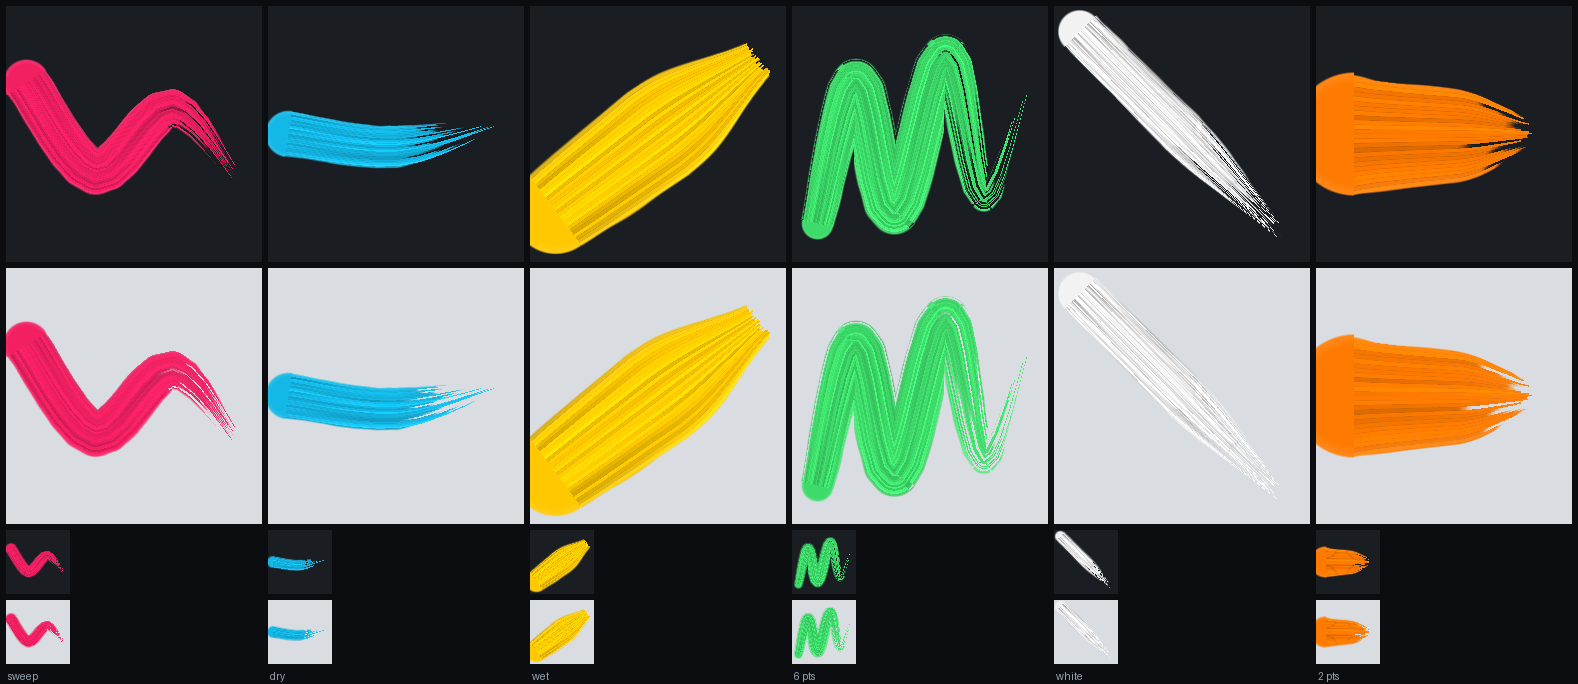
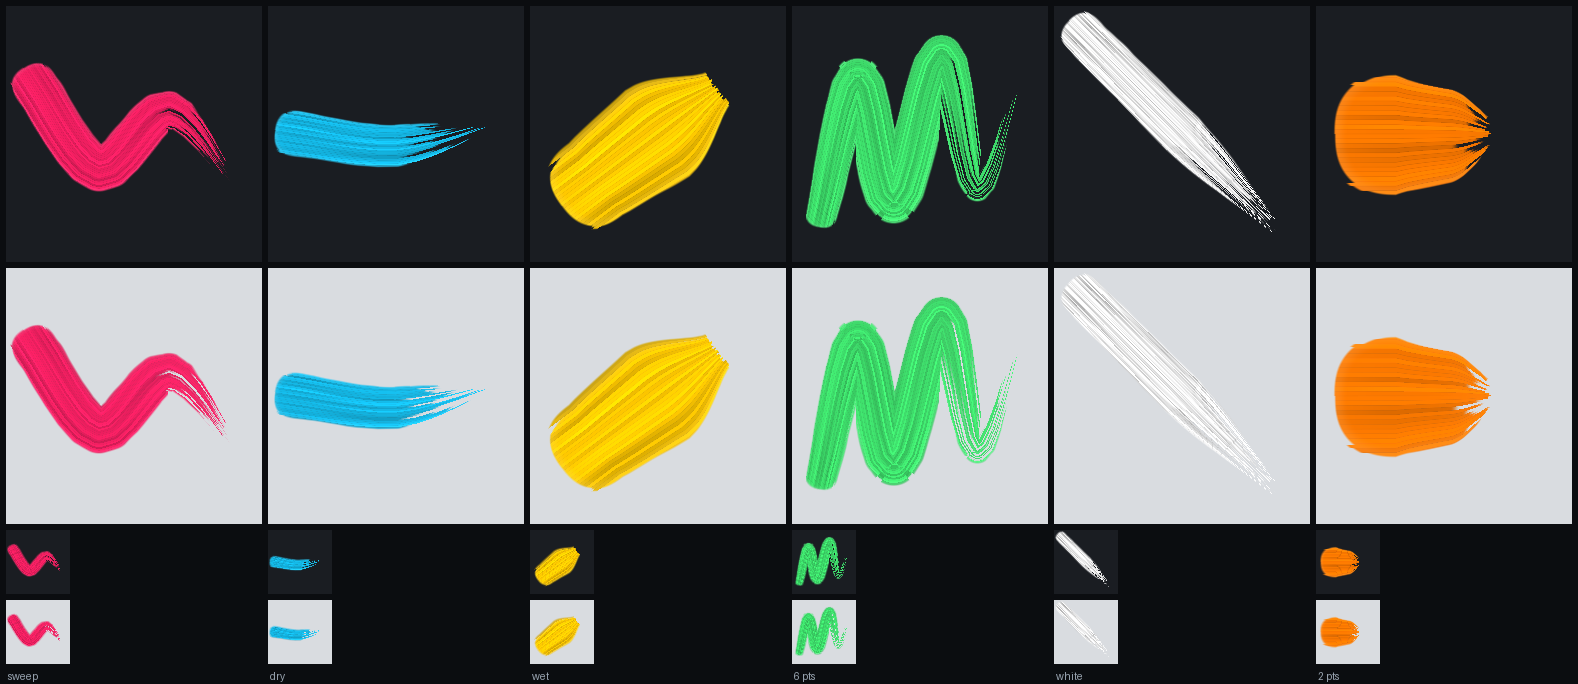
DecalBrush: blend caps into the stroke, fix grey edge line; keep sheet strokes inside quads
Start cap now measured in the stroke frame so bristle streaks, paint-load wander
and the ragged edge carry on into a blunt-round loaded start; strand tails feather
out. Outer |l|>=1 pixels share the last strand instead of a phantom one (the grey
edge line on multi-point strokes). make_sheets fits brush strokes inside the quad.

Claude-Session: https://claude.ai/code/session_01HVmYtC9PU9HKGZyEKu2nbZ

diff --git a/Looks/_decals/make_sheets.py b/Looks/_decals/make_sheets.py
@@ -14,6 +14,20 @@ DARK, LIGHT = "#1A1D22", "#D9DCE0"
 def P(*pts):  # (x, y, pressure) -> float4 props
     return {f"_P{i}": (x, y, p, 0.0) for i, (x, y, p) in enumerate(pts)} | {"_PointCount": float(len(pts))}
 
+def inside(props, width=0.09):
+    """Brush strokes: fit the points into [m, 1-m] with m = 1.3 x the half-width so no stroke touches its quad edge."""
+    m = 1.3 * props.get("_Width", width)
+    keys = [k for k in props if k.startswith("_P") and k[2:].isdigit()]
+    xs = [props[k][0] for k in keys]; ys = [props[k][1] for k in keys]
+    x0, x1, y0, y1 = min(xs), max(xs), min(ys), max(ys)
+    sc = (1 - 2 * m) / max(x1 - x0, y1 - y0, 1e-6)
+    cx, cy = (x0 + x1) / 2, (y0 + y1) / 2
+    out = dict(props)
+    for k in keys:
+        x, y, pr, z = props[k]
+        out[k] = (0.5 + (x - cx) * sc, 0.5 + (y - cy) * sc, pr, z)
+    return out
+
 VARIANTS = {
     "splat": ("UI/Decal/Splat", [
         ("seed 1 pink",      {"_Seed": 1, "_Color": "#F21F61"}),
@@ -44,6 +58,8 @@ VARIANTS = {
 def main():
     name = sys.argv[1]
     shader, variants = VARIANTS[name]
+    if name == "brush":
+        variants = [(l, inside(p)) for l, p in variants]
     sr = SkinRenderer(ROOT, orientation="screen")
     rows = [(256, DARK), (256, LIGHT), (64, DARK), (64, LIGHT)]
     n = len(variants)
